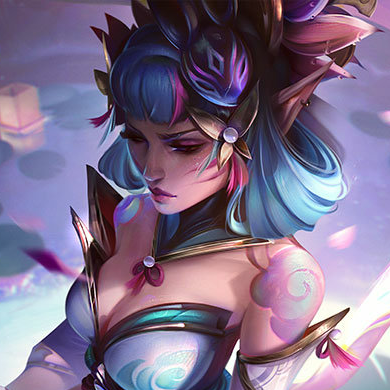
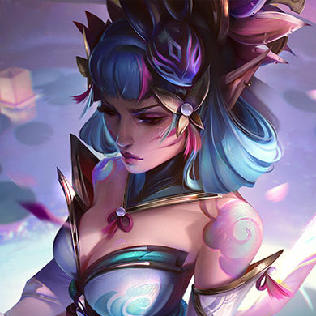
Fixed all formatting issues on all devices

diff --git a/style/style.css b/style/style.css
@@ -20,13 +20,13 @@ body {
     flex-direction: row;
     flex-wrap: wrap;
     justify-content: center;
-    gap: 20px;
+    gap: 10px;
 }
 
 .header-links {
     display: flex;
     flex-direction: row;
-    gap: 10px;
+    gap: 3%;
 }
 
 .logo {
@@ -35,19 +35,25 @@ body {
 }
 
 .main-img {
-    max-width: 400px;
+    max-width: 40%;
     border-radius: 25px;
 }
 
+.img{
+display: flex;
+flex-direction: column;
+align-items: center;
+}
 .icons {
     display: flex;
     flex-direction: row;
     justify-content: space-evenly;
     flex-wrap: wrap;
+    align-items: center;
 }
 
 .square {
-    max-width: 270px;
+    width: 86%;
     border-radius: 25px;
 }
 
@@ -67,7 +73,7 @@ p:first-child {
     flex-direction: column;
     background-color: #1f2937;
     color: white;
-    gap: 40px;
+    gap: 20%;
 }
 
 audio{
